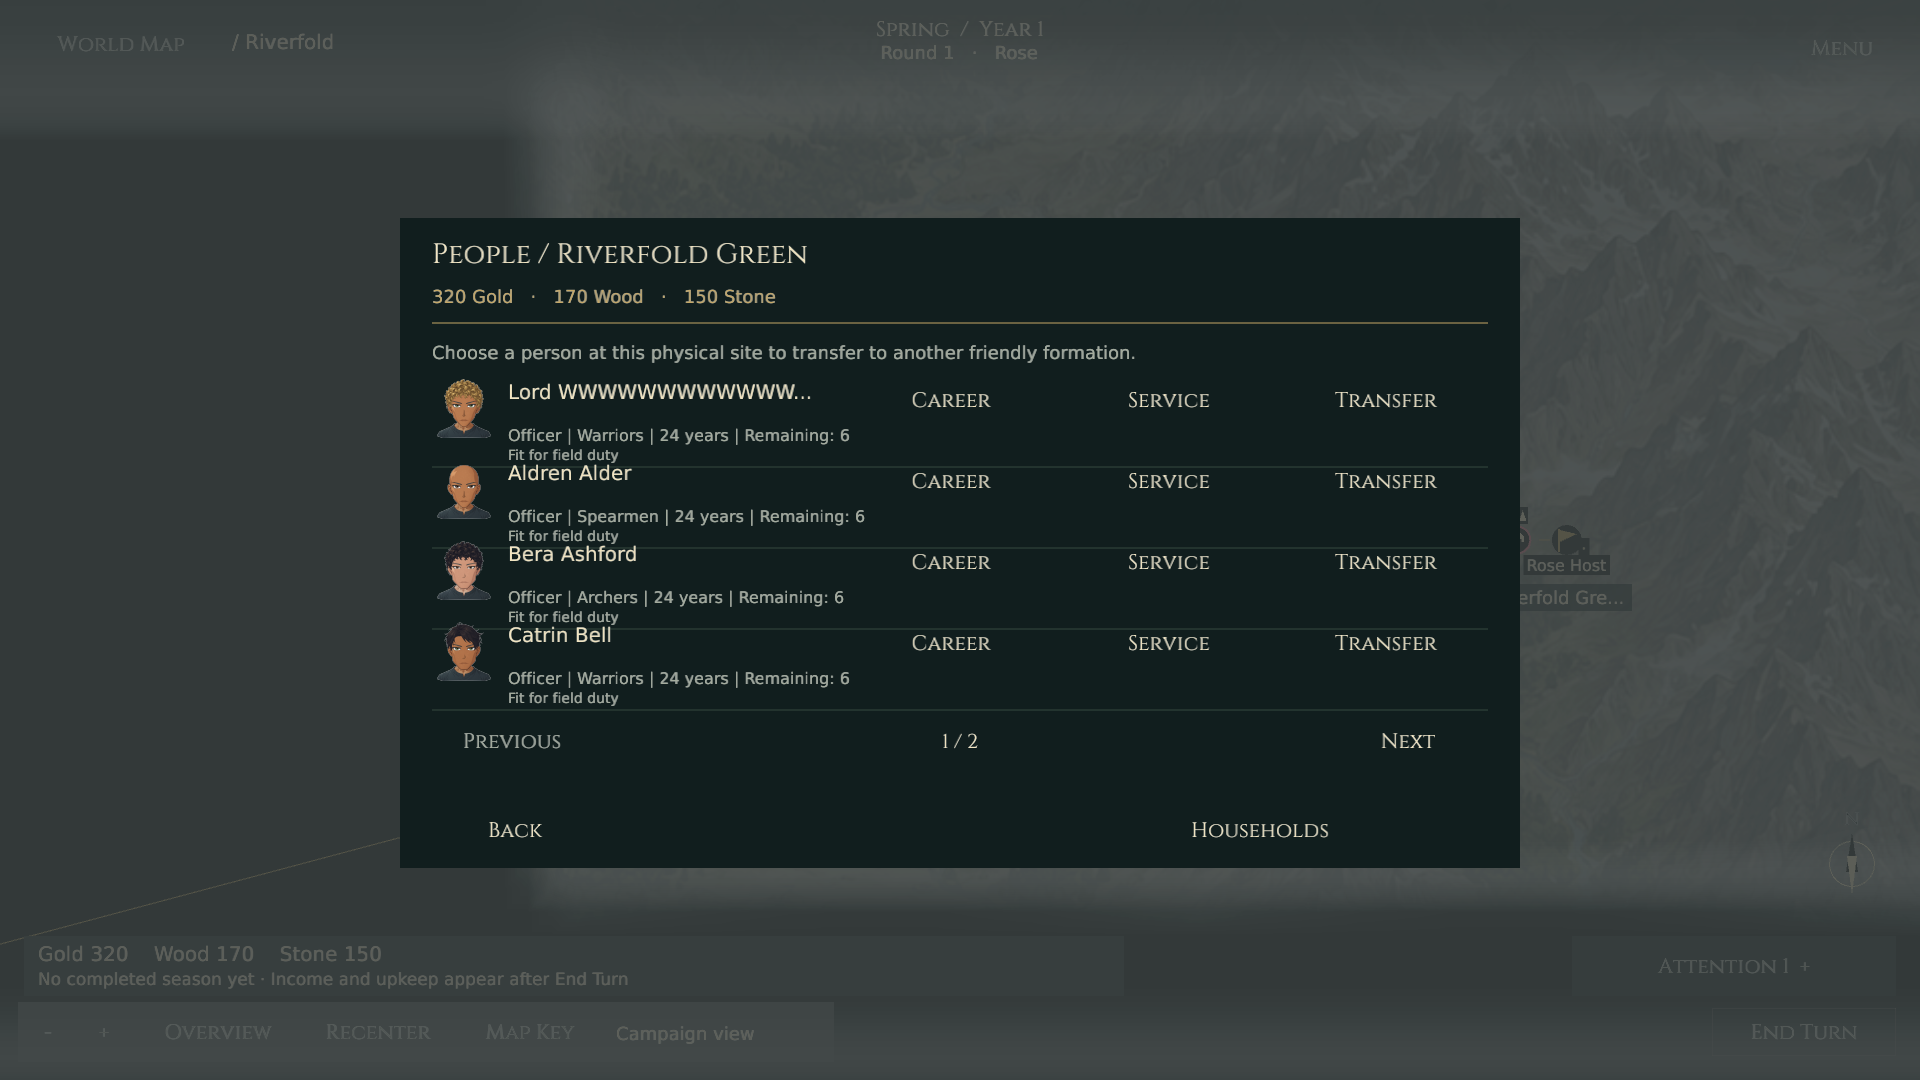
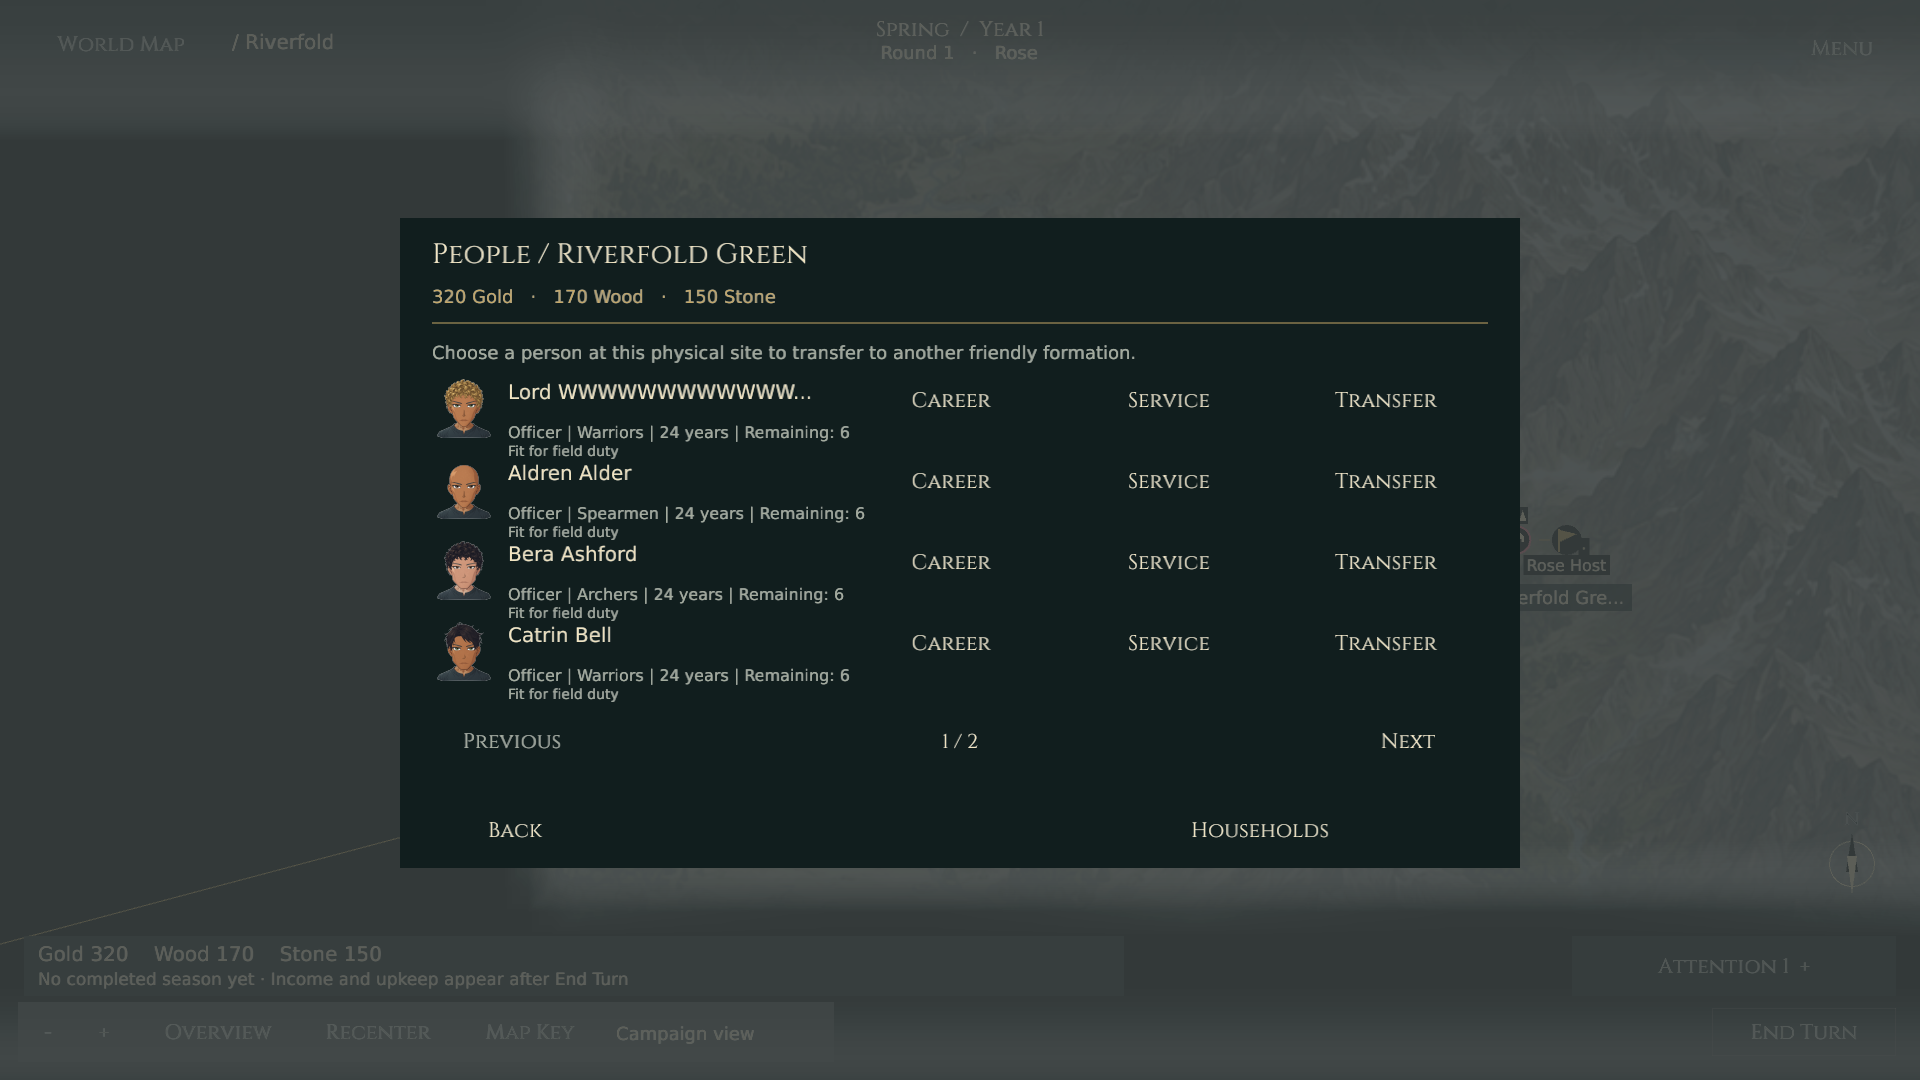
People and notification settings gain breathing room (UI cleanup)
Remove the overlapping generic Back label from global notification settings while retaining its existing close action. Remove People dividers crossing the following portrait and tighten secondary text spacing without changing action targets or portrait art.

Formatting, source-size gate, strict Clippy and three affected 1920x1080 hidden captures pass. Existing notification pointer audits pass. The corrected checkpoint suite completed in 292.508s with only the authorized seed-88 cap failure and one ignored profiler. Evidence records capture invocation errors and an interrupted prohibited fullscreen retry; the successful batch used explicit window dimensions without fullscreen. Browser acceptance remains outstanding.

Record Daniel's prototype save-policy clarification and remove completed TODO items. No publication or test coverage removal.

diff --git a/src/ui/army/people.rs b/src/ui/army/people.rs
@@ -144,7 +144,7 @@ fn person_rows(
                 ctx.text("movement_left"),
                 remaining
             ),
-            vec2(188.0, y + 42.0),
+            vec2(188.0, y + 39.0),
             16.0,
             MUTED,
         );
@@ -219,15 +219,7 @@ fn person_rows(
             epithet
         );
         let note = truncate_text_to_width_ex(&note, 980.0, ctx.body_font(), 14.0);
-        body(ctx, &note, vec2(188.0, y + 61.0), 14.0, MUTED);
-        draw_line(
-            112.0,
-            y + 68.0,
-            1168.0,
-            y + 68.0,
-            1.0,
-            Color::new(0.21, 0.29, 0.25, 1.0),
-        );
+        body(ctx, &note, vec2(188.0, y + 57.0), 14.0, MUTED);
     }
     None
 }

diff --git a/src/ui/menus.rs b/src/ui/menus.rs
@@ -199,6 +199,9 @@ pub fn overlay(ctx: &Context<'_>) -> Option<UiAction> {
     if action.is_some() {
         return action;
     }
+    if notification_settings {
+        return None;
+    }
     let key = if ctx.state.overlay == Overlay::ConfirmNew {
         "cancel"
     } else {

diff --git a/docs/verification/development-workflow.md b/docs/verification/development-workflow.md
@@ -1,0 +1,100 @@
+# Development workflow and resumed TODO evidence
+
+## Scope (2026-10-03)
+
+Resumed from clean `master` at `8da9e44`. Daniel authorized continued TODO work,
+proportionate checks, prompt feature-slice commits and Luna xhigh workers.
+Portrait artwork and external publishing are excluded from this pass.
+The [project instructions](../../PROJECT_AGENTS.md) record the authorized path.
+Strict Clippy remains required for each Rust slice after Daniel's clarification.
+Shared guidance corrections/resync belong to the separate management task.
+Daniel further clarified that prototype save compatibility/migrations are
+optional: unsupported saves must fail clearly and recoverably, without crashing.
+Existing working coverage is retained, not expanded merely to preserve old saves.
+
+## Configuration evidence
+
+The inspected local Codex configuration defaults to `gpt-6-astra` with `high`
+reasoning; a separate named profile has other settings. Worker spawn requests
+explicitly set `model: gpt-6-luna`, `reasoning_effort: xhigh`, and independent
+bounded work orders. The orchestration tool accepted these requests. No separate
+server/runtime model attestation is exposed, so configuration is the extent of
+the model-identity claim. The coordinator plans/reviews; workers implement and
+execute checks with one build owner at a time.
+
+## Cost audit and decisions
+
+- 77 root integration-test targets and 393 test attributes were counted by the
+  audit, including support sources. Counts alone do not establish redundancy.
+- `campaign_scenarios` covers six distinct cases, including the four/eight
+  faction 400-round replay, exact continuation through round-200 reload,
+  a peaceful long campaign and a 24-entry save catalogue. Preserve these checks.
+- The current warm baseline compilation took 0.95s; `campaign_scenarios` passed
+  in 165.40s. Older records report 149.43s and, earlier, 552.03s. These are
+  different runs, not an apples-to-apples optimization benchmark.
+- Requiring the full suite after every UI-only slice repeated this expensive
+  coverage without a corresponding simulation change. The new path avoids that
+  repetition; no tests, victory caps or save assertions were removed/weakened.
+- The last checkpoint's final full-suite invocation misplaced `--no-fail-fast`
+  after the harness separator, paying 4m09s compilation without running tests.
+  The resumed baseline uses Cargo's flag before any separator.
+- The last visual batch captured 13 native scenes, despite only two outstanding
+  polish findings. The UI cleanup needs three affected native scenes, including
+  the existing notification action audit; unchanged screens need no recapture.
+- Do not separately build release/native, recapture every screen, publish, and
+  then rebuild WASM for each small slice. Use the capture wrapper's actual
+  binary build and one fresh WASM build when browser review needs it.
+
+## Execution record
+
+Workflow-only commits `7ecd88c` and `db08342` passed documentation diff,
+command/reference and staged-whitespace review. They claim no runtime coverage.
+
+The single overdue checkpoint baseline ran with
+`..\rust_management\cargo.ps1 test -p kestrum --locked --no-fail-fast`.
+It completed in **292.508s wall time**, with 0.95s reported compilation.
+All targets completed; only
+`k18_production_battle::four_faction_production_campaign_reaches_victory_and_roundtrips_terminal_save`
+failed at its unchanged round-240 cap (line 531). One release profiling test
+remains intentionally ignored. The source-size gate passed. This validates the
+checkpoint's simulation/rendering API test baseline; the later UI-only drawing
+edits have their separate focused checks below. It is not a full-suite pass.
+
+The first sandbox attempt failed before Cargo because the shared pool lease
+directory was read-only; the authorized escalated retry acquired slot 1.
+Avoiding an unchanged full-suite rerun saves approximately this run's 4m53s per
+UI slice on this checkout; no claim of a measured hour-to-minutes improvement.
+
+## Notification settings and People spacing slice
+
+`menus.rs` suppresses only the generic overlay Back while global notification
+settings draw their own `CloseGlobalSettings` control. People rows remove the
+separator crossing the following portrait, and move metadata/status baselines
+up 3/4px. Four rows, portrait artwork, full movement/status information and
+48px action hitboxes remain intact.
+
+- Formatting passed.
+- Pooled `test -p kestrum --locked --test code_standards` passed: compilation
+  32.39s, gate 0.06s.
+- Pooled `clippy -p kestrum --locked --all-targets --all-features '--' -D warnings`
+  passed in 3.49s.
+- `& .\scripts\capture_ui.ps1 -Scenes notifications,notification_global_settings,portraits_dense -WindowWidth 1920 -WindowHeight 1080 -SkipBuild`
+  passed using the current debug build. PID 26384 exited. The notification
+  scene also runs the existing pointer/action audit, including Back with the
+  map card both open and closed.
+- Coordinator inspected the refreshed 1920x1080 global settings and dense People
+  PNGs: one legible Back label, no divider through portraits, readable metadata
+  and unchanged action targets. Browser interaction remains separate work.
+
+The first capture invocation used the shared wrapper directly without explicit
+window dimensions and therefore retained a 1920x1061 client; the game's assertion
+correctly rejected it. A worker then issued a prohibited `-Fullscreen` retry;
+that call was interrupted after 9.5s with no output. No Kestrum process remained
+in the subsequent process check. Whether that call reached fullscreen could
+not be verified. The successful replacement used explicit dimensions and no
+fullscreen/visible flags. This invocation mistake is not a toolkit regression,
+and the interrupted retry is not claimed as acceptance. The three stable
+screenshots deleted by the failed wrapper were replaced by the successful run.
+
+No repeated simulation suite, release build or publication was needed for these
+drawing-only changes. The earlier baseline failure remains an explicit exception.

diff --git a/todo.md b/todo.md
@@ -73,12 +73,6 @@ Agreed new ramps, listed as shadow / base / highlight RGB:
 
 ## Event and platform acceptance
 
-- [ ] Run the final full suite with the corrected launcher invocation:
-  `..\rust_management\cargo.ps1 test --locked --no-fail-fast` (no separator
-  before Cargo's `--no-fail-fast`). The wrap-up command incorrectly passed it
-  after `'--'`, so the test harness rejected the option after compilation and
-  no final tests ran. The earlier full suite only had the approved seed-88
-  failure; that does not validate the final rendering/API/UI changes.
 - [ ] Repair and validate `scripts/verify_portraits_events.cjs` import/navigation
   coordinates before using its later interaction assertions. The current run
   stayed on title/How to Play screens and failed the preference persistence
@@ -89,14 +83,6 @@ Agreed new ramps, listed as shadow / base / highlight RGB:
 - [ ] Collect current native/WebGL portrait cache and frame-time metrics. The
   successful capture wrapper output did not expose the expected metrics lines;
   no runtime cache measurements were collected in the final run.
-- [ ] Remove the duplicated Back label in global notification settings
-  (`src/ui/menus.rs` / `src/ui/notifications/settings.rs`). The final native
-  capture shows both labels at the same control; preserve the already-audited
-  Back behavior and recapture `ui_notification_global_settings.png`.
-- [ ] Refine dense People row separators/spacing in `src/ui/army/people.rs`.
-  Metadata and actions are readable, but the separator crowds the next row's
-  name and portrait in `ui_portraits_dense.png`. Preserve full movement/status
-  information and existing touch targets; avoid adding another panel.
 - [ ] Finish any interaction coverage left unverified in the current scoped
   record: grouped/overflow navigation, last-page delivery settings, muting and
   re-enabling, save/reload acknowledgements, NPC progression with an open card,

diff --git a/PROJECT_AGENTS.md b/PROJECT_AGENTS.md
@@ -23,8 +23,12 @@ do not edit shared policy or apply this exception to other games.
   Reuse unchanged results; rerun only after a relevant change or unresolved
   failure. Do not run focused suites immediately before a full suite that
   already contains them unless an earlier fast diagnosis is useful.
-- Keep deterministic, save/migration and core gameplay coverage. Test count is
-  not a deletion target. Measure wall time separately from compilation and
+- Keep useful existing deterministic and core gameplay coverage; test count is
+  not a deletion target. Backward save compatibility and migrations are optional
+  for this prototype (Daniel's clarification). Unsupported saves must show a
+  clear recoverable error without crashing. Do not build migration machinery
+  solely to satisfy earlier guidance or remove unrelated working code.
+  Measure wall time separately from compilation and
   reported test time; consolidate coverage only with a concrete redundancy.
 - Build WASM once when browser acceptance is needed; reuse that exact output
   across independent headless profiles. Capture only affected scenes and reuse

diff --git a/docs/verification/README.md b/docs/verification/README.md
@@ -4,6 +4,10 @@
 
 ## How to use these records
 
+[Resumed development workflow](development-workflow.md) records the 2026-10-03
+validation-cost audit, corrected checkpoint baseline and subsequent TODO slices.
+Use it alongside the portrait/event checkpoint for current evidence.
+
 Verification reports record a dated change, checkout, test result and review
 scope. They are historical evidence, not an implementation queue or proof of
 current playability. An older report's unresolved issue may have a later fix;
